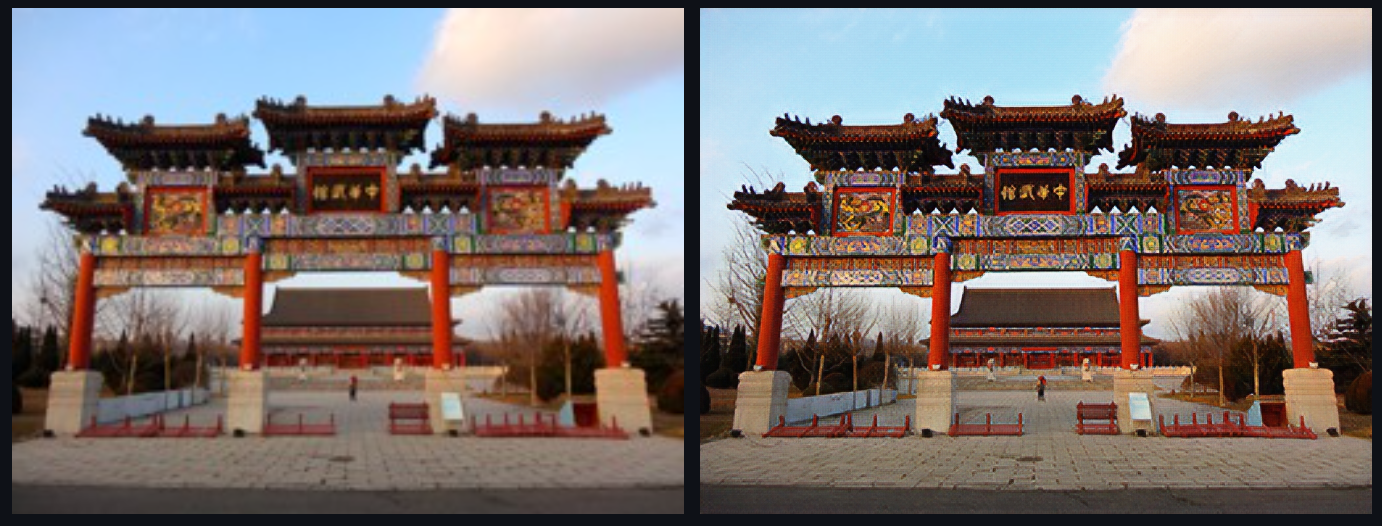
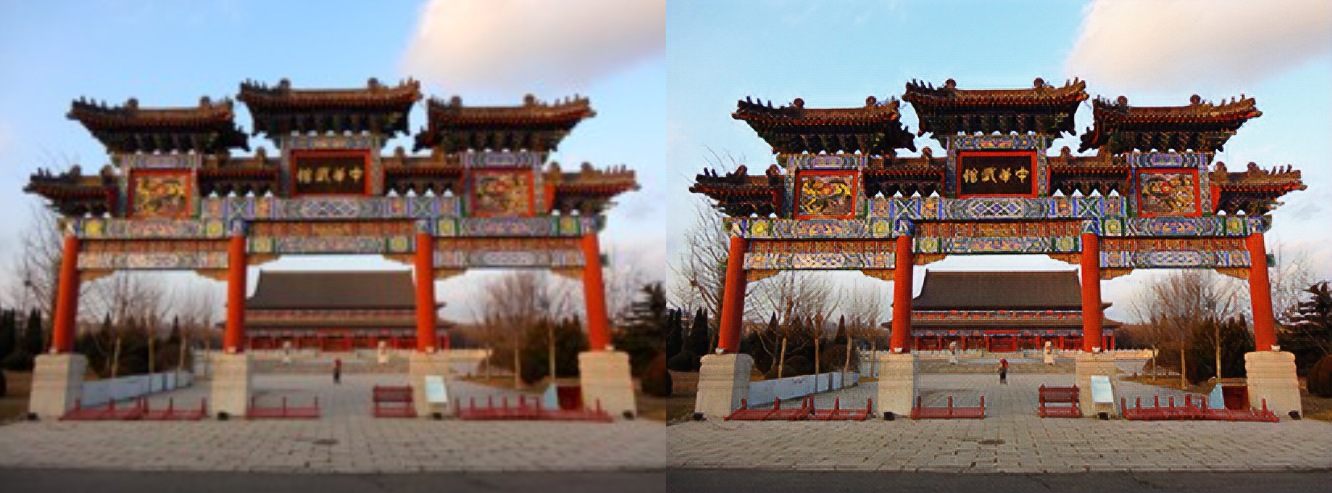
document modified

diff --git a/README.md b/README.md
@@ -3,20 +3,21 @@
 
 ## Introduction 🚨
 
-One of the fundamental challenge in signal processing is the presence of noise. Random nature of noise makes it difficult to process the data and distructively affects the quality of data collected. The field of computer vision is growing large with its vast applications accross different fields. Advancements in computer vision demands high quality image data for building robust state of the art models. 
-
-This project aims at exploring autoencoder architecture for image denoising. AutoEncoder arcitecture is a neural netwoek architecture widely used for denoising and reconstruction of images and video files.
 
 
-![Alt text](assets/srgan_block.png)
+
+
+![Alt text](assets/srgan_cover.png)
+
 
 check out [Photo-Realistic Single Image Super-Resolution Using a Generative Adversarial Network](https://arxiv.org/abs/1609.04802v5)
-GitHub link [Project-Repo](https://github.com/ananthapadmanabhan-o/Image-Denoising-AutoEncoder)
+GitHub link [Project-Repo](https://github.com/ananthapadmanabhan-o/Image-Super-Resolution)
 
-check out [AutoEncoders]()
-learn more about [Image-Noise](https://en.wikipedia.org/wiki/Image_noise#:~:text=Image%20noise%20is%20random%20variation,of%20an%20ideal%20photon%20detector.)
-GitHub link [Project-Repo](https://github.com/ananthapadmanabhan-o/Image-Denoising-AutoEncoder)
-Data set linke [link](https://www.kaggle.com/datasets/huaiyingu/bsd100)
+Data set linke [link](https://data.vision.ee.ethz.ch/cvl/DIV2K/)
+
+## SRGAN Architecture
+
+![Alt text](assets/srgan_block.png)
 
 ##### check out the app at [streallit app link](https://image-denoising-autoencoder.streamlit.app/)
 
